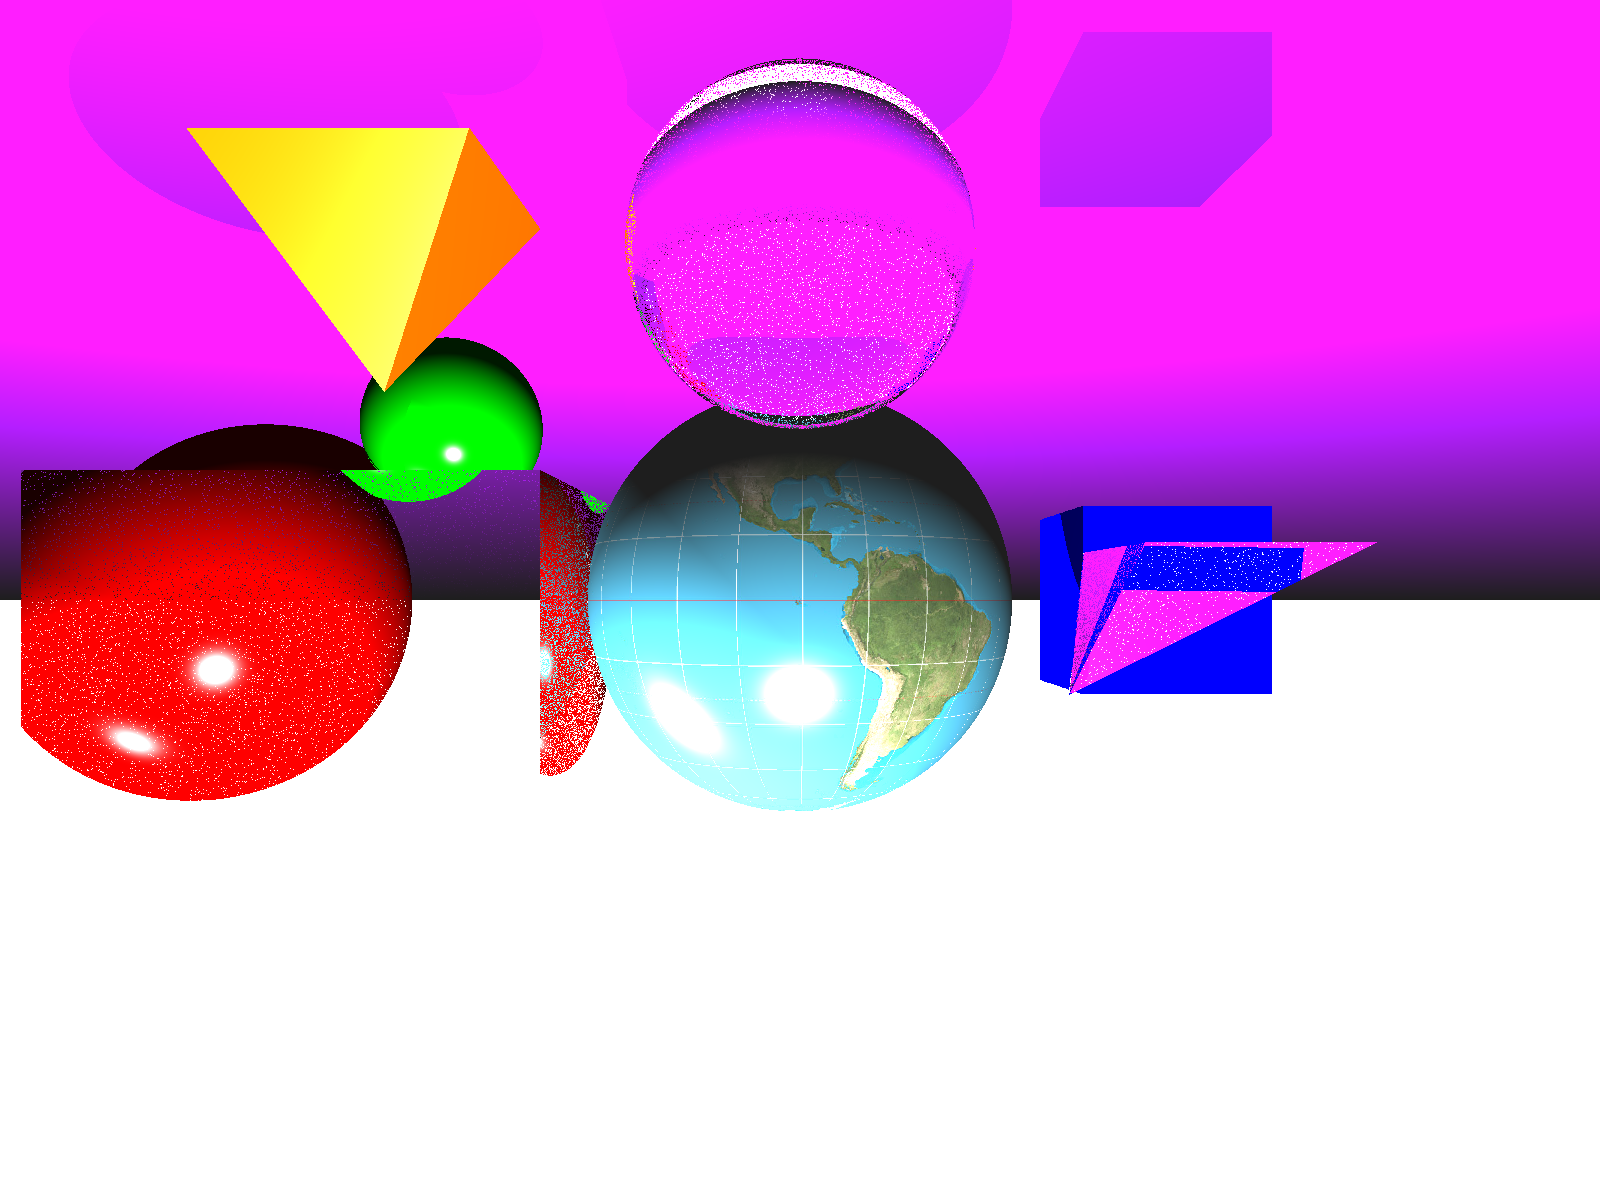
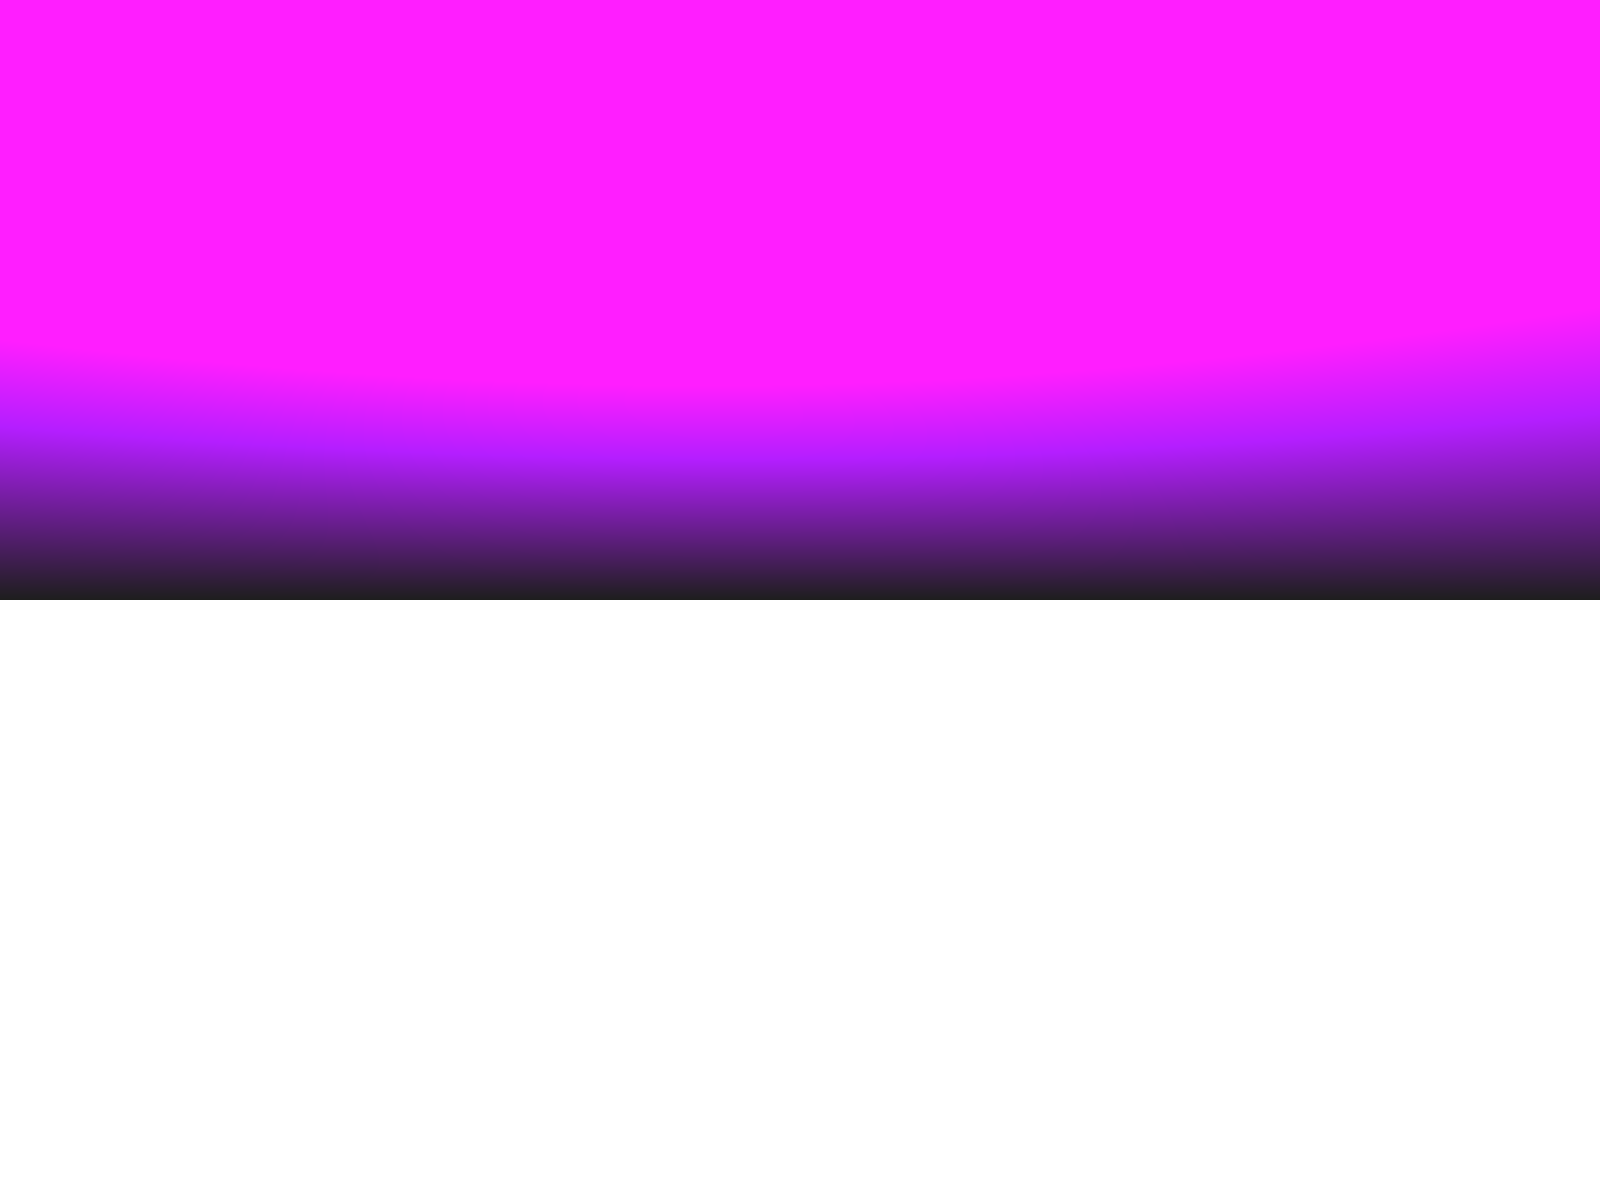
.obj converting in progress

Changed region(s): [[0.0, 0.0925, 0.875, 0.6783], [0.375, 0.0, 0.8125, 0.185], [0.5938, 0.2158, 0.625, 0.2467]]

diff --git a/src/main/java/org/example/Main.java b/src/main/java/org/example/Main.java
@@ -4,66 +4,62 @@ import me.tongfei.progressbar.ProgressBar;
 import org.example.material.*;
 import org.example.material.gradient.GradientTexture;
 import org.example.material.image.ImageTexture;
-import org.example.material.sinusoidal.SinusoidalTexture;
+import org.example.material.textures.Texture;
+import org.example.material.textures.TexturePhongMaterial;
 import org.example.math.Ray;
 import org.example.math.Vector3;
-import org.example.objects.Cube;
 import org.example.objects.Plane;
-import org.example.objects.Pyramid;
 import org.example.objects.Sphere;
+import org.example.objects.triangles.ObjTriangle;
+import org.example.objects.triangles.PyramidTriangle;
+import org.example.objects.triangles.Triangle;
+import org.example.parser.ObjParser;
 import org.example.scene.Camera;
 import org.example.scene.Light;
 import org.example.scene.Scene;
-import org.example.material.textures.*;
 
 import javax.imageio.ImageIO;
 import java.awt.*;
-import java.util.List;
 import java.awt.image.BufferedImage;
 import java.io.File;
 import java.io.IOException;
 import java.util.ArrayList;
+import java.util.List;
 import java.util.concurrent.ExecutorService;
 import java.util.concurrent.Executors;
 import java.util.concurrent.Future;
 import java.util.concurrent.atomic.AtomicInteger;
 
 public class Main {
-    public static final int SCALE = 2;
-    public static final int WIDTH = 800 * SCALE;
-    public static final int HEIGHT = 600 * SCALE;
-    public static final int MAX_DEPTH = 7;
-
-    public static String EARTH = "src/main/resources/earth.jpg";
-    public static String CHESS = "src/main/resources/chess.png";
-
     public static void main(String[] args) throws IOException {
-        BufferedImage image = new BufferedImage(WIDTH, HEIGHT, BufferedImage.TYPE_INT_RGB);
+        BufferedImage image = new BufferedImage(Constant.Scene_parameters.WIDTH, Constant.Scene_parameters.HEIGHT, BufferedImage.TYPE_INT_RGB);
 
         Scene scene = new Scene();
         scene.setBackground_color(Color.WHITE);
 
-        // * TEXTURES
-        Texture earthTexture = new ImageTexture(CHESS);
+        // * Chess
+        Texture chessTexture = new ImageTexture(Constant.TexturesPaths.CHESS);
+        Material chess = new TexturePhongMaterial(chessTexture,
+                new Color(30, 30, 30),    // ambient
+                new Color(255, 255, 255), // specular
+                32);                               // shininess
 
-        // * SinusoidalTexture
-        SinusoidalTexture sinusoidalTexture = new SinusoidalTexture();
-        sinusoidalTexture.setBase(new Color(255, 126, 0));
-        sinusoidalTexture.setMultiply(100);
-        sinusoidalTexture.setVeined(new Color(0, 119, 255));
+        // * Earth
+        Material earthPhong = new TexturePhongMaterial(
+                new ImageTexture(Constant.TexturesPaths.EARTH),
+                new Color(30, 30, 30),    // ambient
+                new Color(255, 255, 255), // specular
+                32                                 // shininess
+        );
 
+        // * Glass
+        Material glass = new GlassMaterial(1.5);
+
+        // * Metal
+        Material metal = new MetalMaterial(new Color(192, 192, 192), 0.1);
         Material diffuseMaterial = new LambertMaterial(Color.BLUE);
 
-        // * TextureMaterial
-        Material earth = new TexturePhongMaterial(earthTexture,
-                new Color(30, 30, 30),    // ambient
-                new Color(255, 255, 255), // specular
-                32);                               // shininess
-        Material sinusoidalMaterial = new TexturePhongMaterial(sinusoidalTexture,
-                new Color(30, 30, 30),    // ambient
-                new Color(255, 255, 255), // specular
-                32);                               // shininess
-        Material wallMaterial = new TexturePhongMaterial(
+        Material backgroundMaterial = new TexturePhongMaterial(
                 new GradientTexture(
                         new Color(170, 0, 255),
                         new Color(255, 255, 255),
@@ -73,67 +69,36 @@ public class Main {
                 new Color(255, 255, 255), // specular
                 32);                               // shininess
 
-        // * TexturePhongMaterial
-        Material earthPhong = new TexturePhongMaterial(
-                new ImageTexture(EARTH),
-                new Color(30, 30, 30),    // ambient
-                new Color(255, 255, 255), // specular
-                32                                 // shininess
-        );
-        scene.addObject(new Sphere(new Vector3(0, 0, -5), 1, earthPhong));
 
         // * PhongMaterial
         Material redPhong = new PhongMaterial(new Color(255, 0, 0), 0.1, 0.7, 0.6, 64);
         Material greenPhong = new PhongMaterial(new Color(0, 255, 0), 0.1, 0.7, 0.6, 64);
         Material bluePhong = new PhongMaterial(new Color(0, 0, 255), 0.1, 0.7, 0.6, 64);
 
-        // * Glass
-        Material glass = new GlassMaterial(1.5);
-
-        // * Metal
-        Material metal = new MetalMaterial(new Color(192, 192, 192), 0.1);
-
-        // * GradientTextures
-        Material wall_gradient_material = new TexturePhongMaterial(
-                new GradientTexture(
-                        new Color(255, 0, 0),
-                        new Color(0, 61, 255),
-                        -3, 5.0 // диапазон Y в сцене
-                ),
-                new Color(30, 30, 30),               // ambient
-                new Color(255, 255, 255),            // specular
-                32
-
-        );
-        Material backgroundMat = new TexturePhongMaterial(
-                new GradientTexture(
-                        new Color(239, 239, 239), // bottom — светло-серый
-                        new Color(0, 70, 255),  // top — небесный синий
-                        -1.5, 3.0                 // диапазон Y сцены
-                ),
-                new Color(30, 30, 30),               // ambient
-                new Color(255, 255, 255),            // specular
-                32
-        );
-
-
         // * OBJECTS
-        scene.addObject(new Plane(new Vector3(0, -6, 0), new Vector3(0, 1, 0), wallMaterial));  // потолок
+        scene.addObject(new Plane(new Vector3(0, -6, 0), new Vector3(0, 1, 0), backgroundMaterial));  // потолок
+//
+//        scene.addObject(new Sphere(new Vector3(0, 0, -5), 1, earthPhong));
+//        scene.addObject(new Sphere(new Vector3(-2, -1, -6), 0.5, greenPhong));
+//        scene.addObject(new Sphere(new Vector3(0, -1, -3), 0.5, glass));
+//        scene.addObject(new Sphere(new Vector3(-3, 0, -6), 1, redPhong));
+//
+//        scene.addObject(new Pyramid(new Vector3(2, -0.25, -5), 1, 1, new Vector3(-1, 1, 0), glass));
+//        scene.addObject(new Pyramid(
+//                new Vector3(-2, -2, -5), 1.2, 1,
+//                new Vector3(0, 1, 0),
+//                new PhongMaterial(new Color(255, 120, 0), 0.3, 0.6, 0.4, 10)
+//        ));
+//
+//        scene.addObject(new Cube(new Vector3(-2, 0.5, -5), 2, glass));
+//        scene.addObject(new Cube(new Vector3(2, 0, -6), 1, bluePhong));
 
-        scene.addObject(new Sphere(new Vector3(0, 0, -5), 1, earthPhong));
-        scene.addObject(new Sphere(new Vector3(-2, -1, -6), 0.5, greenPhong));
-        scene.addObject(new Sphere(new Vector3(0, -1, -3), 0.5, glass));
-        scene.addObject(new Sphere(new Vector3(-3, 0, -6), 1, redPhong));
+        List<ObjTriangle> tris = ObjParser.load(Constant.TexturesPaths.PAWN_OBJ);
 
-        scene.addObject(new Pyramid(new Vector3(2, -0.25, -5), 1, 1, new Vector3(-1, 1, 0), glass));
-        scene.addObject(new Pyramid(
-                new Vector3(-2, -2, -5), 1.2, 1,
-                new Vector3(0, 1, 0),
-                new PhongMaterial(new Color(255, 120, 0), 0.3, 0.6, 0.4, 10)
-        ));
+        for (ObjTriangle tri : tris) {
+            scene.addObject(new Triangle(tri.v0, tri.v1, tri.v2, bluePhong));
+        }
 
-        scene.addObject(new Cube(new Vector3(-2, 0.5, -5), 2, glass));
-        scene.addObject(new Cube(new Vector3(2, 0, -6), 1, bluePhong));
 
         // * LIGHT
         scene.addLight(new Light(new Vector3(0, 5, 0), 2));
@@ -146,27 +111,34 @@ public class Main {
                 new Vector3(0, 0, 0),
                 new Vector3(0, 0, -1),
                 60,
-                WIDTH,
-                HEIGHT
+                Constant.Scene_parameters.WIDTH,
+                Constant.Scene_parameters.HEIGHT
         );
 
-        // * Render time
+        // * Rendering
+        long[] times = renderScene(camera, scene, image);
+
+        // * Saving
+        savingFile(image, times[0], times[1], "output");
+    }
+
+    public static long[] renderScene(Camera camera, Scene scene, BufferedImage image) {
         long startTime = System.nanoTime();
 
         int threads = Runtime.getRuntime().availableProcessors();
         ExecutorService executor = Executors.newFixedThreadPool(threads);
         AtomicInteger pixelCounter = new AtomicInteger(0);
-        int[][] pixelBuffer = new int[HEIGHT][WIDTH];
+        int[][] pixelBuffer = new int[Constant.Scene_parameters.HEIGHT][Constant.Scene_parameters.WIDTH];
 
-        try (ProgressBar pb = new ProgressBar("Ray tracing", WIDTH * HEIGHT)) {
+        try (ProgressBar pb = new ProgressBar("Ray tracing", Constant.Scene_parameters.WIDTH * Constant.Scene_parameters.HEIGHT)) {
             List<Future<?>> tasks = new ArrayList<>();
 
-            for (int y = 0; y < HEIGHT; y++) {
+            for (int y = 0; y < Constant.Scene_parameters.HEIGHT; y++) {
                 final int row = y;
                 tasks.add(executor.submit(() -> {
-                    for (int x = 0; x < WIDTH; x++) {
+                    for (int x = 0; x < Constant.Scene_parameters.WIDTH; x++) {
                         Ray ray = camera.getRay(x, row);
-                        Color color = scene.trace(ray, MAX_DEPTH);
+                        Color color = scene.trace(ray, Constant.Scene_parameters.MAX_DEPTH);
                         pixelBuffer[row][x] = color.getRGB();
                         pb.step();
                         pixelCounter.incrementAndGet();
@@ -185,15 +157,18 @@ public class Main {
         long endTime = System.nanoTime();
         executor.shutdown();
 
-        for (int y = 0; y < HEIGHT; y++) {
-            for (int x = 0; x < WIDTH; x++) {
+        for (int y = 0; y < Constant.Scene_parameters.HEIGHT; y++) {
+            for (int x = 0; x < Constant.Scene_parameters.WIDTH; x++) {
                 image.setRGB(x, y, pixelBuffer[y][x]);
             }
         }
 
-        // * Saving Image
+        return new long[]{startTime, endTime};
+    }
+
+    public static void savingFile(BufferedImage image, long startTime, long endTime, String filename) throws IOException {
         try (ProgressBar progressBar = new ProgressBar("Saving file", 1)) {
-            ImageIO.write(image, "png", new File("output.png"));
+            ImageIO.write(image, "png", new File(filename + ".png"));
             progressBar.step();
         }
 

diff --git a/src/main/java/org/example/objects/Pyramid.java b/src/main/java/org/example/objects/Pyramid.java
@@ -3,6 +3,7 @@ package org.example.objects;
 import org.example.material.Material;
 import org.example.math.Ray;
 import org.example.math.Vector3;
+import org.example.objects.triangles.PyramidTriangle;
 import org.example.optimization.AABB;
 
 public class Pyramid implements Hittable {
@@ -14,7 +15,7 @@ public class Pyramid implements Hittable {
 
     private final Vector3 v0, v1, v2, v3;
     private final Vector3 apex;
-    private final Triangle[] sides;
+    private final PyramidTriangle[] sides;
 
     public Pyramid(Vector3 baseCenter, double size, double height, Vector3 direction, Material material) {
         this.baseCenter = baseCenter;
@@ -31,11 +32,11 @@ public class Pyramid implements Hittable {
 
         this.apex = baseCenter.add(direction.normalize().multiply(height));
 
-        this.sides = new Triangle[] {
-                new Triangle(v1, v0, apex),  // ← порядок важен
-                new Triangle(v2, v1, apex),
-                new Triangle(v3, v2, apex),
-                new Triangle(v0, v3, apex)
+        this.sides = new PyramidTriangle[] {
+                new PyramidTriangle(v1, v0, apex),  // ← порядок важен
+                new PyramidTriangle(v2, v1, apex),
+                new PyramidTriangle(v3, v2, apex),
+                new PyramidTriangle(v0, v3, apex)
         };
     }
 
@@ -44,7 +45,7 @@ public class Pyramid implements Hittable {
         HitResult closestHit = null;
         double closestT = Double.MAX_VALUE;
 
-        for (Triangle side : sides) {
+        for (PyramidTriangle side : sides) {
             HitResult hit = side.getDetailedHit(ray, 0.001, closestT, material);
             if (hit != null && hit.t < closestT) {
                 closestT = hit.t;

diff --git a/src/main/java/org/example/scene/Camera.java b/src/main/java/org/example/scene/Camera.java
@@ -1,6 +1,6 @@
 package org.example.scene;
 
-import org.example.Main;
+import org.example.Constant;
 import org.example.math.Ray;
 import org.example.math.Vector3;
 
@@ -32,8 +32,8 @@ public class Camera {
     }
 
     public Ray getRay(int x, int y) {
-        double u = (x + 0.5) / (double) Main.WIDTH;  // 800 - ширина изображения
-        double v = (y + 0.5) / (double) Main.HEIGHT;  // 600 - высота изображения
+        double u = (x + 0.5) / (double) Constant.Scene_parameters.WIDTH;  // 800 - ширина изображения
+        double v = (y + 0.5) / (double) Constant.Scene_parameters.HEIGHT;  // 600 - высота изображения
 
         Vector3 direction = lowerLeftCorner.add(horizontal.multiply(u)).add(vertical.multiply(v)).subtract(origin);
         return new Ray(origin, direction);

diff --git a/src/main/java/org/example/objects/triangles/PyramidTriangle.java b/src/main/java/org/example/objects/triangles/PyramidTriangle.java
@@ -1,15 +1,16 @@
-package org.example.objects;
+package org.example.objects.triangles;
 
 import org.example.material.Material;
 import org.example.math.Ray;
 import org.example.math.Vector3;
+import org.example.objects.HitResult;
 import org.example.optimization.AABB;
 
-public class Triangle {
+public class PyramidTriangle {
     private final Vector3 v0, v1, v2; // Вершины треугольника
     private final Vector3 normal;
 
-    public Triangle(Vector3 v0, Vector3 v1, Vector3 v2) {
+    public PyramidTriangle(Vector3 v0, Vector3 v1, Vector3 v2) {
         this.v0 = v0;
         this.v1 = v1;
         this.v2 = v2;

diff --git a/src/main/java/org/example/Constant.java b/src/main/java/org/example/Constant.java
@@ -1,0 +1,18 @@
+package org.example;
+
+public class Constant {
+    public static class Scene_parameters {
+        public static final int SCALE = 2;
+        public static final int WIDTH = 800 * SCALE;
+        public static final int HEIGHT = 600 * SCALE;
+        public static final int MAX_DEPTH = 7;
+    }
+
+    public static class TexturesPaths {
+        public static String EARTH = "src/main/resources/textures/earth.jpg";
+        public static String CHESS = "src/main/resources/textures/chess.png";
+
+        public static String PAWN_OBJ = "src/main/resources/obj/pawn.obj";
+    }
+
+}
